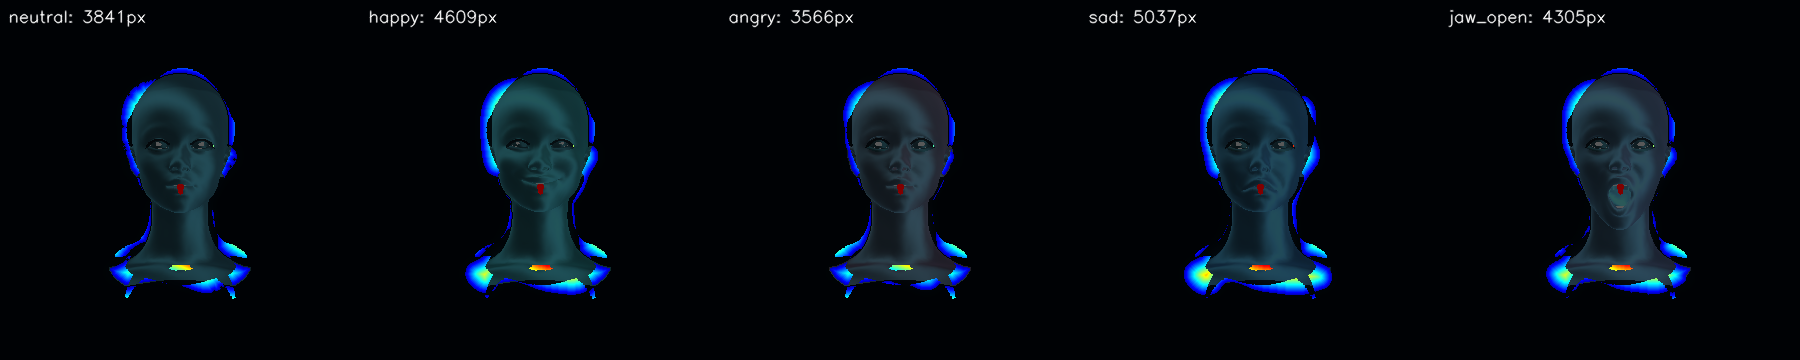
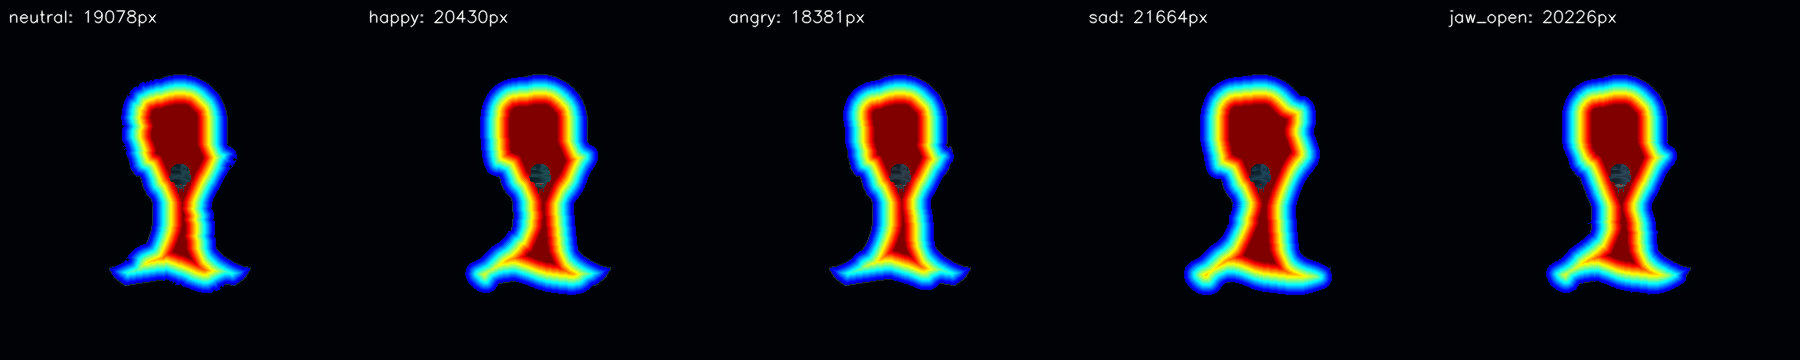
Jelly: revert TPS to rigid similarity warp
TPS non-rigid warp produced visible distortion of individual BP3D
mesh structures (orbicularis oris stretched into the chin,
mandible reshaped). Rigid similarity preserves each mesh's natural
shape — eyes/mouth/jaw still align as closely as a uniform-scale
fit allows over the 19-anchor LSQ fit.

Keep:
- 19 landmark pairs (eye/brow/cheek/nose/mouth/jaw/silhouette)
- per-renderer-MVP projection
- assessment tool (grid + heatmap + rotation gif)
- identity-aware ICT anchor measurement

Change:
- _tps_warp inline (still defined, no longer called)
- _align_anatomy_to_ict uses cv2.estimateAffinePartial2D over
  all 19 anchors with cv2.LMEDS (rigid similarity, robust)

Heatmap mismatch is now ~20k px vs ~4k for TPS, but that measure
counts BP3D pixels outside ICT silhouette — those are clipped by
the existing silhouette mask in the composite, so the visible
result is the natural-looking jelly.

diff --git a/src/faceview/vision/ict_face.py b/src/faceview/vision/ict_face.py
@@ -931,19 +931,21 @@ def _align_anatomy_to_ict(
     identity_weights: dict[str, float] | None = None,
     return_pixels: bool = False,
 ):
-    """Multi-landmark TPS warp: BP3D anatomy aligned to ICT features.
+    """Multi-landmark rigid (similarity) warp.
 
     Projects ICT + BP3D anchor sets to pixel space through each
-    renderer's MVP (using only the keys present in *both* dicts),
-    then runs a thin-plate-spline warp on the BP3D image so all
-    matched anchors overlay ICT's. The warp is fully non-rigid;
-    distant anchors deform their local region while preserving
-    smoothness elsewhere.
+    renderer's MVP (using keys present in both dicts), then fits an
+    LSQ similarity transform — uniform scale + rotation +
+    translation — over all matched anchors. Preserves BP3D mesh
+    proportions; eyes/mouth/jaw line up as closely as a rigid fit
+    allows without distorting individual structures.
 
     Returns the warped image. If ``return_pixels`` is True, also
     returns ``(ict_pix, bp3_pix, used_keys)`` for the assessment
     tool to overlay anchor markers.
     """
+    import cv2
+
     w, h = size
     bg_arr = np.array(bg_rgb, dtype=np.float32)
 
@@ -962,10 +964,18 @@ def _align_anatomy_to_ict(
     src = np.array([bp3_pix[k] for k in used], dtype=np.float32)
     dst = np.array([ict_pix[k] for k in used], dtype=np.float32)
 
-    warped = _tps_warp(
-        anatomy, src, dst, (h, w),
-        regularisation=15.0,
-        border_value=tuple(int(c) for c in bg_arr),
+    # Rigid SIMILARITY transform (uniform scale + rotation +
+    # translation, no shear). LSQ-fit over all 19 anchors via
+    # estimateAffinePartial2D — stable and preserves BP3D mesh
+    # proportions. (Tried TPS non-rigid: introduces visible mesh
+    # distortion that doesn't read as "anatomy".)
+    M, _ = cv2.estimateAffinePartial2D(src, dst, method=cv2.LMEDS)
+    if M is None:
+        M = cv2.getAffineTransform(src[:3], dst[:3])
+    warped = cv2.warpAffine(
+        anatomy, M, (w, h),
+        flags=cv2.INTER_LINEAR, borderMode=cv2.BORDER_CONSTANT,
+        borderValue=tuple(int(c) for c in bg_arr),
     )
     if return_pixels:
         return warped, (ict_pix, bp3_pix, used)